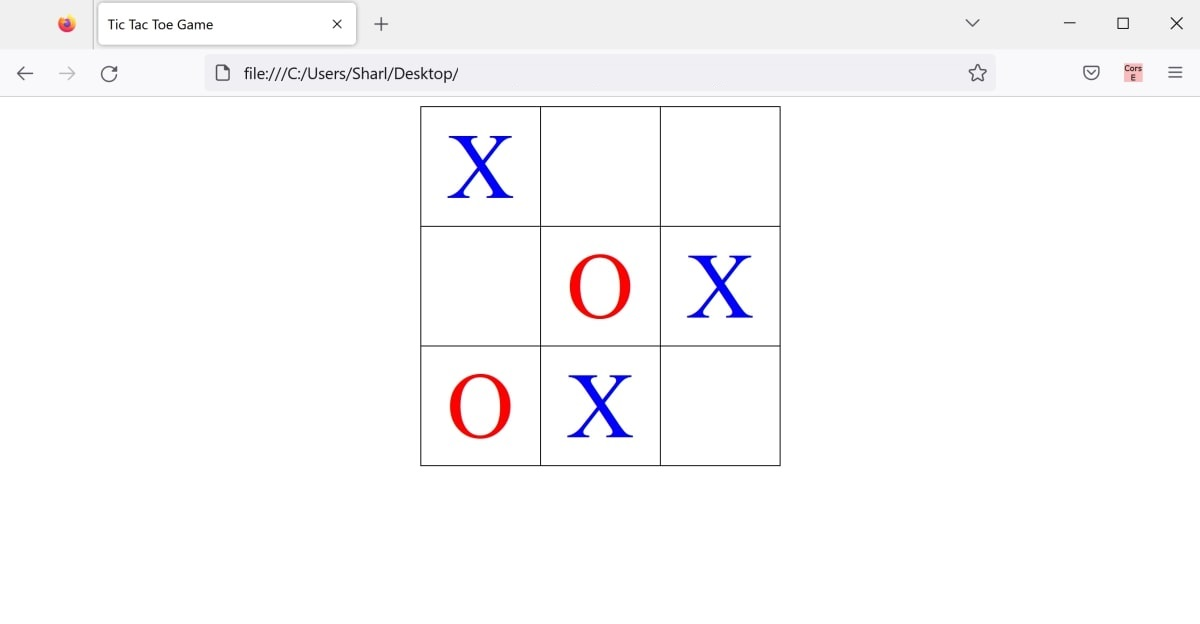
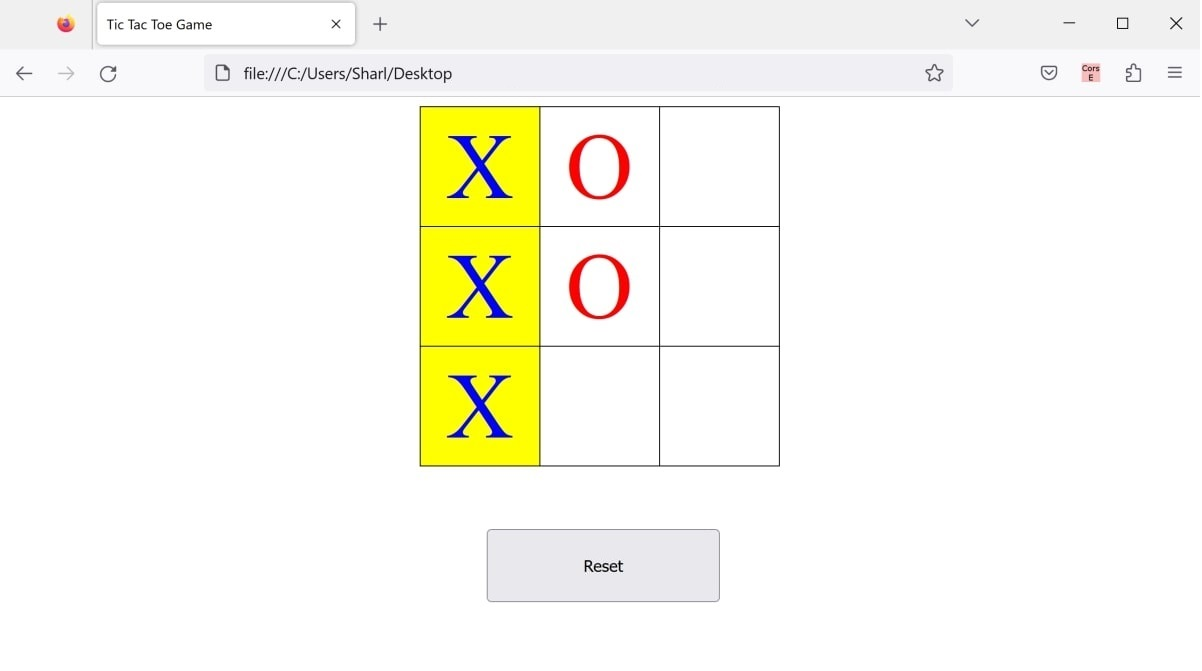
Updated based on changes 2 + new image

diff --git a/script.js b/script.js
@@ -1,63 +1,63 @@
 let playerSymbol = "X";
 let gameEnded = false
-let winPositions = [
-	[1, 2, 3], [4, 5, 6], 
-	[7, 8, 9], [1, 4, 7], 
-	[2, 5, 8], [3, 6, 9], 
-	[1, 5, 9], [3, 5, 7]
+
+let winPos = [
+  [1, 2, 3], [4, 5, 6], 
+  [7, 8, 9], [1, 4, 7], 
+  [2, 5, 8], [3, 6, 9], 
+  [1, 5, 9], [3, 5, 7]
 ];
 
-
 for (let i = 1; i <= 9; i++) {
-	// Whenever a player clicks on a cell
-	document.getElementById(i.toString()).addEventListener(
-		"click", 
-		function() {
-			if (this.innerHTML === "" && !gameEnded) {
-				// Display either "X" or "O" in the cell, and style it
-				this.innerHTML = playerSymbol;
-				this.classList.add(playerSymbol.toLowerCase());
-				
-				// Check if a player has won
-				checkWin();
-				
-				// Swap the symbol to the other one for the next turn
-				if (playerSymbol === "X")
-					playerSymbol = "O"
-				else
-					playerSymbol = "X"
-			}
-		}
-	);
+  // Whenever a player clicks on a cell
+  document.getElementById(i.toString()).addEventListener(
+    "click", 
+    function() {
+      if (this.innerHTML === "" && !gameEnded) {
+        // Display either "X" or "O" in the cell, and style it
+        this.innerHTML = playerSymbol;
+        this.classList.add(playerSymbol.toLowerCase());
+        
+        // Check if a player has won
+        checkWin();
+        
+        // Swap the symbol to the other one for the next turn
+        if (playerSymbol === "X")
+          playerSymbol = "O"
+        else
+          playerSymbol = "X"
+      }
+    }
+  );
 }
 
 function checkWin() {
-	for (let i = 0; i < winPositions.length; i++) {
-		if (
-			document.getElementById(winPositions[i][0]).innerHTML === playerSymbol &&
-			document.getElementById(winPositions[i][1]).innerHTML === playerSymbol &&
-			document.getElementById(winPositions[i][2]).innerHTML === playerSymbol
-		) {
-			document.getElementById(winPositions[i][0]).classList.add("win");
-			document.getElementById(winPositions[i][1]).classList.add("win");
-			document.getElementById(winPositions[i][2]).classList.add("win"); 
-			gameEnded = true;
-			setTimeout(function() {
-				alert(playerSymbol + " wins!");
-			}, 500);
-		}
+  for (let i = 0; i < winPos.length; i++) {
+	if (
+	  document.getElementById(winPos[i][0]).innerHTML === playerSymbol &&
+	  document.getElementById(winPos[i][1]).innerHTML === playerSymbol &&
+	  document.getElementById(winPos[i][2]).innerHTML === playerSymbol
+	) {
+	  document.getElementById(winPos[i][0]).classList.add("win");
+	  document.getElementById(winPos[i][1]).classList.add("win");
+	  document.getElementById(winPos[i][2]).classList.add("win"); 
+	  gameEnded = true;
+	  setTimeout(function() {
+	    alert(playerSymbol + " wins!");
+	  }, 500);
 	}
+  }
 }
 
 document.getElementById("reset").addEventListener(
-    "click", 
-	function() {
-		for (let i = 1; i <= 9; i++) {
-			document.getElementById(i.toString()).innerHTML = "";
-			document.getElementById(i.toString()).classList.remove("x");
-			document.getElementById(i.toString()).classList.remove("o");
-			document.getElementById(i.toString()).classList.remove("win");
-			gameEnded = false;
-		}
-	}
+  "click", 
+  function() {
+    for (let i = 1; i <= 9; i++) {
+      document.getElementById(i.toString()).innerHTML = "";
+      document.getElementById(i.toString()).classList.remove("x");
+      document.getElementById(i.toString()).classList.remove("o");
+      document.getElementById(i.toString()).classList.remove("win");
+      gameEnded = false;
+    }
+  }
 );

diff --git a/index.html b/index.html
@@ -1,30 +1,30 @@
 <!doctype html>
 <html lang="en-US">
-	<head>
-		<title>Tic Tac Toe Game</title>
-		<link rel="stylesheet" type="text/css" href="styles.css">
-	</head>
-	<body>
-		<div class="container">
-			<table>
-				<tr>
-					<td id="1"></td>
-					<td id="2"></td>
-					<td id="3"></td>
-				</tr>
-				<tr>
-					<td id="4"></td>
-					<td id="5"></td>
-					<td id="6"></td>
-				</tr>
-				<tr>
-					<td id="7"></td>
-					<td id="8"></td>
-					<td id="9"></td>
-				</tr>
-			</table>
-			<button id="reset">Reset</button>
-		</div>
-		<script src="script.js"></script>
-	</body>
+  <head>
+    <title>Tic Tac Toe Game</title>
+	<link rel="stylesheet" type="text/css" href="styles.css">
+  </head>
+  <body>
+    <div class="container">
+	  <table>
+	    <tr>
+	      <td id="1"></td>
+	      <td id="2"></td>
+	      <td id="3"></td>
+	    </tr>
+	    <tr>
+	      <td id="4"></td>
+	      <td id="5"></td>
+	      <td id="6"></td>
+	    </tr>
+	    <tr>
+	      <td id="7"></td>
+	      <td id="8"></td>
+	      <td id="9"></td>
+	    </tr>
+	  </table>
+	  <button id="reset">Reset</button>
+	</div>
+	<script src="script.js"></script>
+  </body>
 </html>

diff --git a/styles.css b/styles.css
@@ -1,26 +1,36 @@
 table {
-	border-collapse: collapse;
-	margin: 0 auto;
+  border-collapse: collapse;
+  margin: 0 auto;
 }
 
 td {
-	width: 100px;
-	height: 100px;
-	text-align: center;
-	vertical-align: middle;
-	border: 1px solid black;
+  width: 100px;
+  height: 100px;
+  text-align: center;
+  vertical-align: middle;
+  border: 1px solid black;
 }
 
 .x {
-	color: blue;
-	font-size: 80px;
+  color: blue;
+  font-size: 80px;
 }
 
 .o {
-	color: red;
-	font-size: 80px;
+  color: red;
+  font-size: 80px;
 }
 
 .win {
-	background-color: yellow;
+  background-color: yellow;
+}
+
+.container {
+  display: flex;
+  flex-direction: column;
+}
+
+#reset {
+  margin: 48px 40%;
+  padding: 20px;
 }
